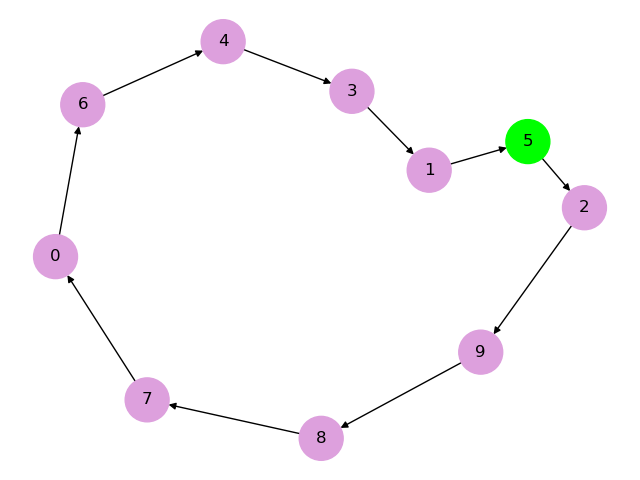
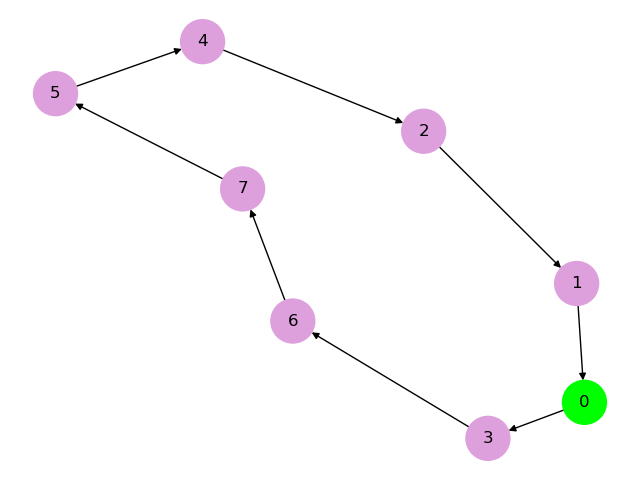
comentarios

diff --git a/static/css/styles.css b/static/css/styles.css
@@ -48,8 +48,7 @@ li:hover{
 	background: #ECECEC;
 	float: left;
 }
-#content .result .results{
-}
+
 #content .result .image-result{
 	position: relative;
 	left: 50%;

diff --git a/hillclimbing.py b/hillclimbing.py
@@ -4,6 +4,8 @@ import numpy as np
 import networkx as nx
 import matplotlib.pyplot as plt
 
+#Conla finalidad que los países seleccionados se muestren en orden,
+#se ponen sus siglas en su orden de aparición en el .txt
 countries = ['mx','ar','bo','br','cl','co','cr','cu','do','ec','gt','hn','ht','pr','sv','tt','ur','ni','pa','pe','py']
 
 
@@ -14,12 +16,16 @@ def getInputs(inp):
     with open('paises2.txt') as my_file:      
         for line in my_file:  
             data.append([list(map(float ,x.split(','))) for x in line.split(' ')])
-    
+
+        #se toman los inputs del usuario y se arma una lista con sus coordenadas correspondientes
         for i in range(len(inp)):
             newdata.append(data[int(inp[i])])
+
+    #los datos obtenidos se toman en cuenta para la lista de coordenadas oficiales. 
     coords = np.array(newdata)
     return coords
 
+#Se agregan las siglas de los países correspondientes a los escogidos por el usuario.
 def getInputsCountries(inp):
     countryIndex = []
     for i in range(len(inp)):
@@ -77,27 +83,37 @@ def generateNeighbors(matrix, randSolution):
             bestNeighbor = neighbor
     return bestNeighbor, bestPath
 
-
+#se ejecuta el algoritmo de Hill Climbing, tomando en cuenta las coordenadas.
 def hill_climbing(coords):
+    #se crea la matriz de adyacencia. 
     matrix = createAdyacencyMatrix(coords)
     
+    #se crea una solucion aleatoria y una longitud de ruta basada en esta solucion.
     currSolution = randomSolution(matrix)
     currentPath = createPathlength(matrix, currSolution)
+
+    #se generan los vecinos tomando como base la solucion y matriz generadas.
     neighbor = generateNeighbors(matrix,currSolution)[0]
     bestNeighbor, bestNeighborPath = generateNeighbors(matrix, neighbor)
 
+    #se itera para determinar si la ruta obtenida es la más optima
+    #si se obtiene una mejor ruta, las variables declaradas anteriormente se actualizan.
     while bestNeighborPath < currentPath:
         currentSolution = bestNeighbor
         currentPath = bestNeighborPath
         neighbor = generateNeighbors(matrix, currentSolution)[0]
         bestNeighbor, bestNeighborPath = generateNeighbors(matrix, neighbor)
-
+    #se regresa la mejor ruta y la mejor solucion
     return currentPath, currentSolution
 
+#se genera el grafo y se obtienen los resultados
 def graph(coords, countryCords):
+    #se ejecuta el algoritmo y se guarda en una variable: finalSolution
     finalSolution = hill_climbing(coords)
+    
     countryResults=[]
 
+    #se establecen las variables para la creacion del grafo
     G = nx.DiGraph()
     t = finalSolution[1]
     G.add_nodes_from(finalSolution[1])
@@ -109,7 +125,7 @@ def graph(coords, countryCords):
         G.add_edge(t[i - 1], t[i])
     G.add_edge(t[len(t) - 1], t[0])
     
-   
+    #se crea el grafo, generando una imagen png. 
     colorMap = []
     for node in G:
         print("node: ",node)

diff --git a/app.py b/app.py
@@ -1,3 +1,4 @@
+#este archivo sirve para relacionar el script de Python con las herramientas de desarrollo web.
 import json
 from flask import Flask, render_template, request, jsonify
 from hillclimbing import getInputs, getInputsCountries, graph
@@ -6,10 +7,14 @@ app = Flask(__name__)
 
 coords=[]
 
+#se hace routing de la página principal de la interfaz
 @app.route("/")
 def index():
     return render_template("index.html")
 
+#se obtienen las entradas puestas por el usuario
+#se mandan los datos al archivo hillclimbing.py 
+#se despliegan los resultados
 @app.route("/calcular", methods=['POST'])
 def inputUsuario():
     coords = getInputs(request.form.getlist('country'))
@@ -20,11 +25,13 @@ def inputUsuario():
     solLength = sol[2]
     return render_template("index.html",solNum=solNum,solCountry=solCountry,solLength=solLength)
 
+#se actualiza la imagen del grafo obtenida. 
 @app.route('/get_img', methods = ['GET'])
 def get_img():
     img = '../static/imgs/img1.png'
     return jsonify({'img':img}) 
 
+#se elimina el cache del framework para que se actualice la imagen de forma efectiva.
 @app.after_request
 def add_header(r):
     """
